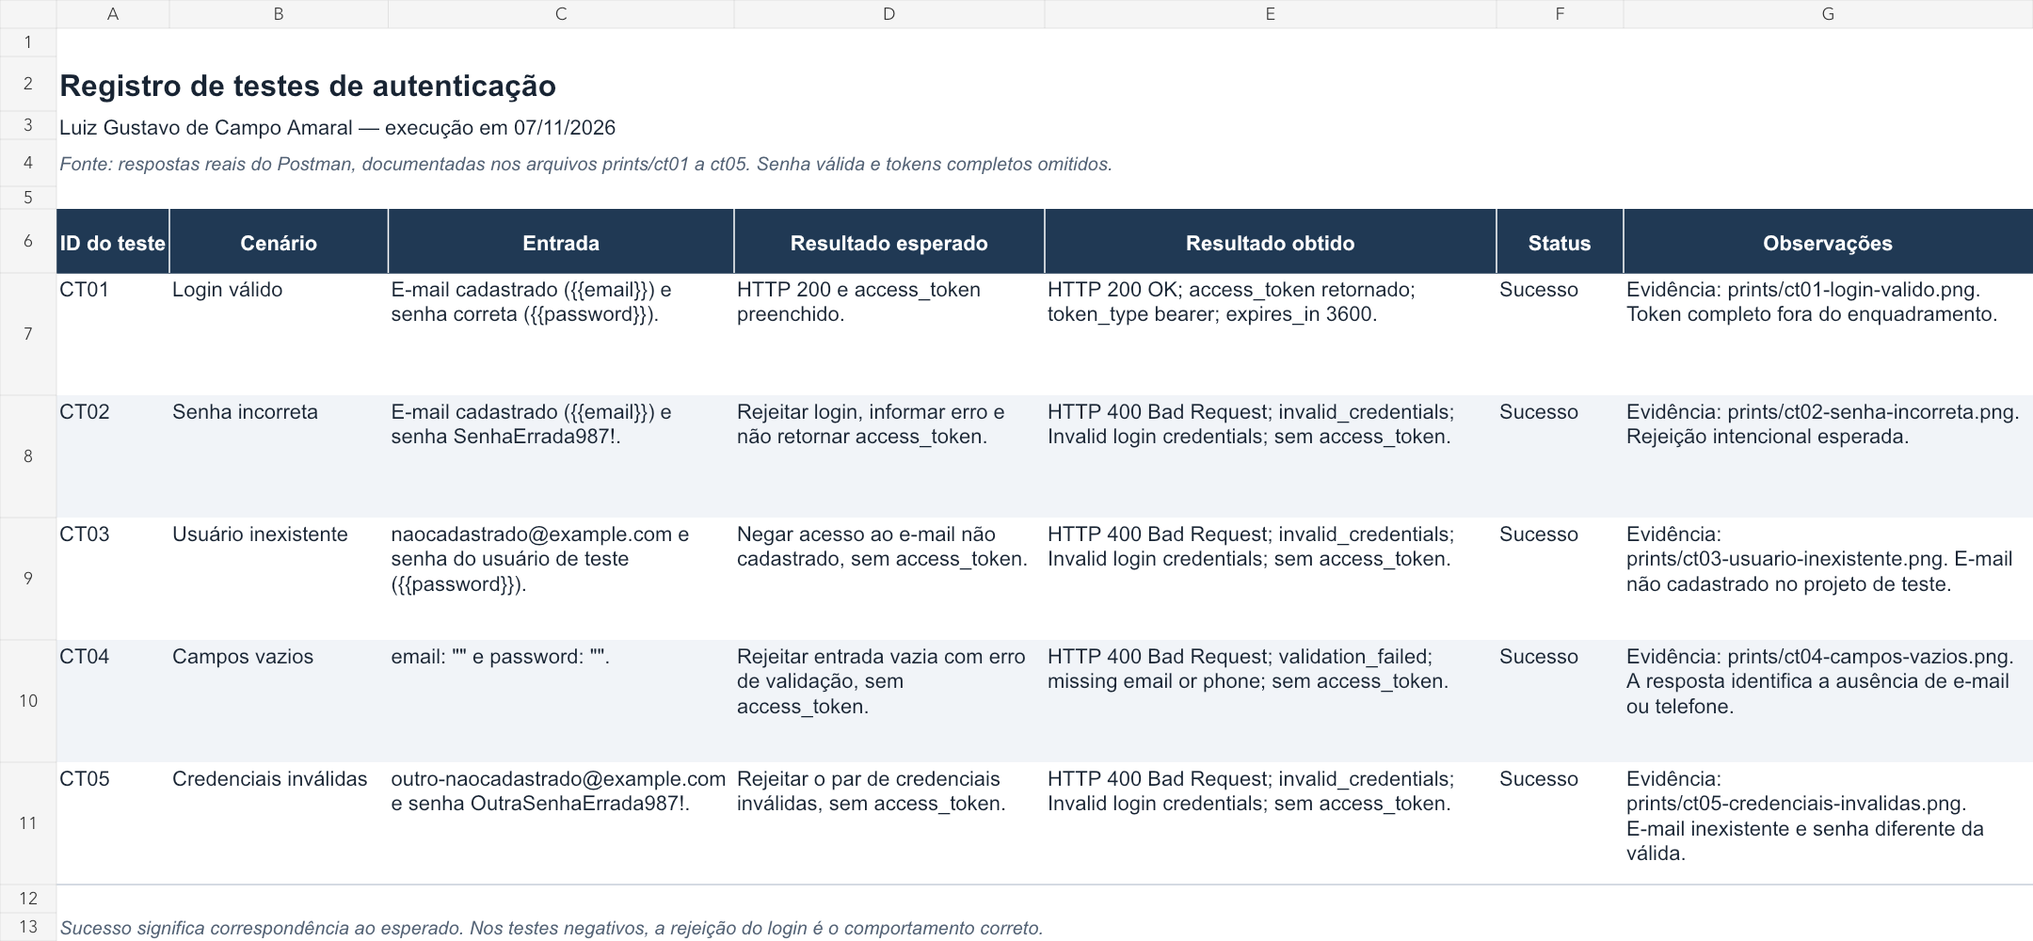
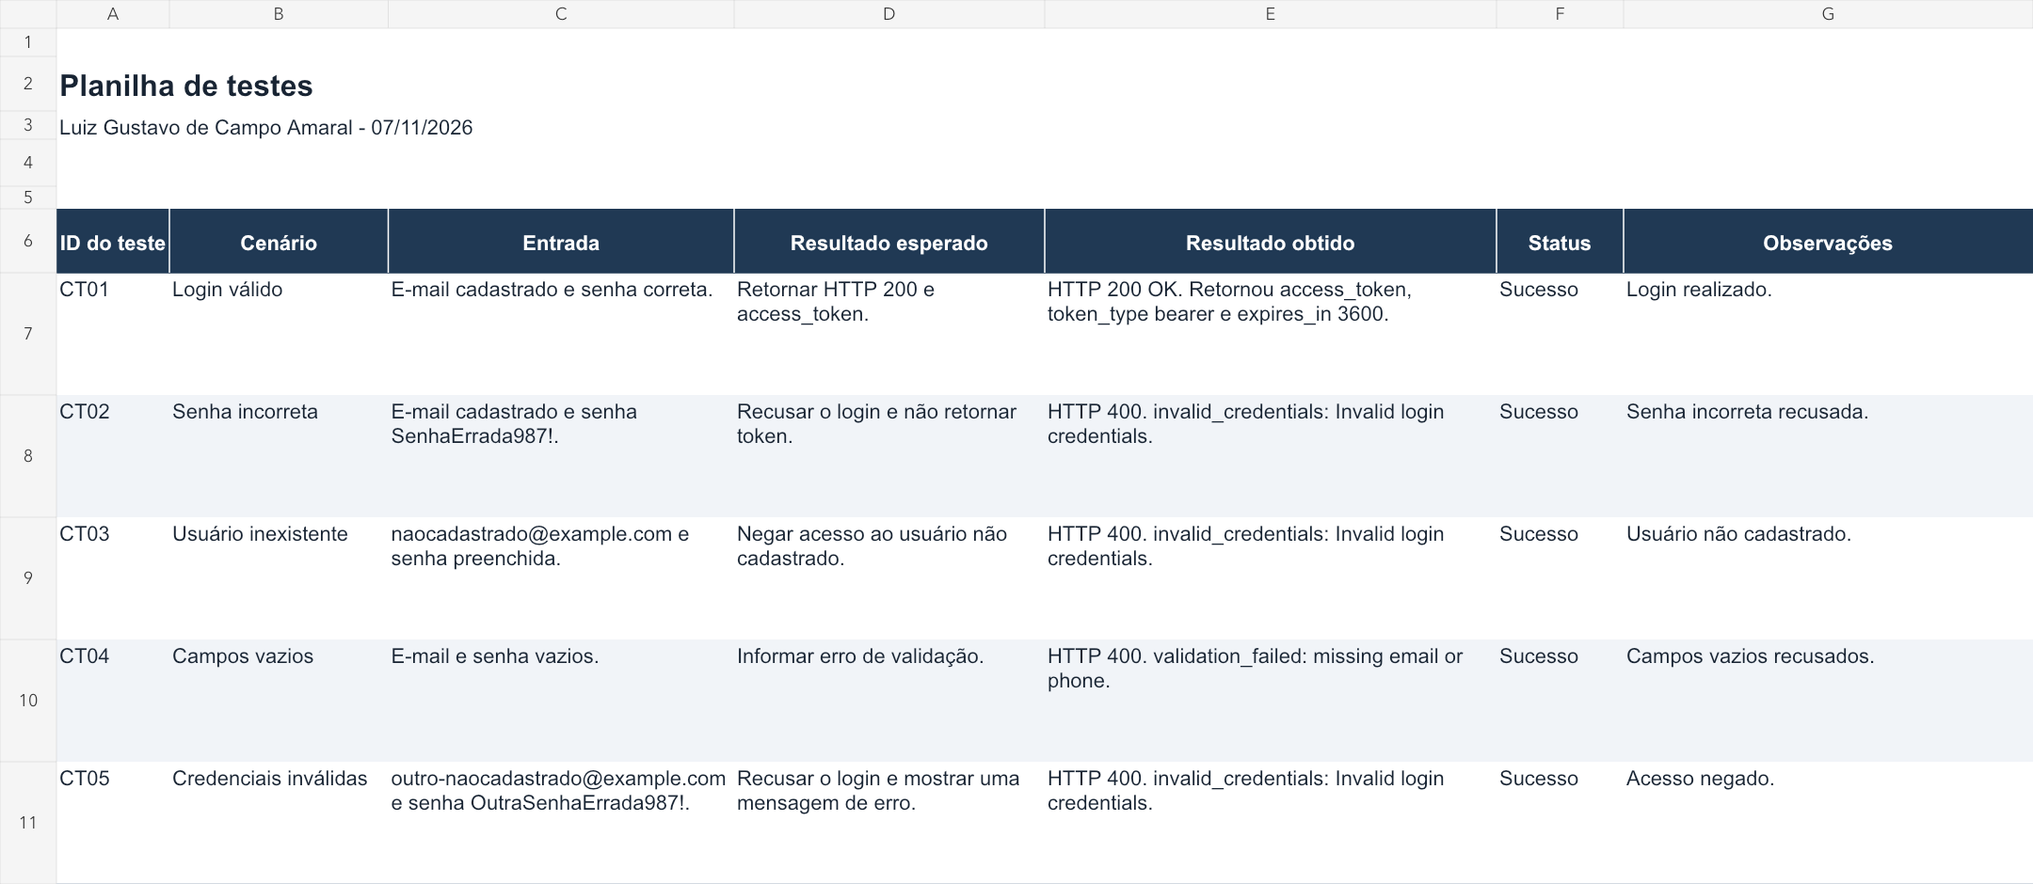
Simplifica relatório e planilha e utiliza os prints originais da atividade

diff --git a/README.md b/README.md
@@ -1,115 +1,70 @@
 # Introdução
 
-**Aluno:** Luiz Gustavo de Campo Amaral  
-**Atividade:** Teste caixa cinza com Supabase e Postman  
-**Data da execução:** 07/11/2026
+Aluno: Luiz Gustavo de Campo Amaral  
+Data: 07/11/2026
 
-Esta atividade registra testes funcionais da API de autenticação do Supabase. Criei um usuário de teste e enviei requisições HTTP pelo Postman para verificar o login com dados válidos, inválidos e vazios.
+Nesta atividade, configurei um projeto no Supabase e usei o Postman para testar o login por e-mail e senha. Fiz os testes diretamente na API, sem criar uma interface.
 
-A abordagem é de caixa cinza porque os testes utilizam conhecimento do endpoint, dos headers, do corpo JSON e das respostas da API, sem examinar toda a implementação interna do serviço de autenticação. Não foi desenvolvida interface gráfica.
-
-> **Ferramenta utilizada:** os testes documentados foram executados no **Postman Web**, com o Cloud Agent. O enunciado pede **Postman Desktop**; a utilização da versão Web é uma diferença em relação ao requisito e depende da aceitação do professor. Os registros não apresentam uma execução no aplicativo Desktop.
-
-## Organização do repositório
-
-```text
-README.md
-postman/
-  testes-autenticacao.postman_collection.json
-  supabase-exemplo.postman_environment.json
-prints/
-  supabase-projeto.png
-  ct01-login-valido.png
-  ct02-senha-incorreta.png
-  ct03-usuario-inexistente.png
-  ct04-campos-vazios.png
-  ct05-credenciais-invalidas.png
-  postman-endpoint-headers.png
-  postman-workspace-variaveis.png
-  postman-ambiente-url.png
-  planilha-testes.png
-planilha/
-  testes.xlsx
-  testes.csv
-```
-
-As evidências do Postman são capturas das respostas que permaneceram abertas após as execuções do aluno. O enquadramento exclui o painel que exibe a senha e, no login válido, deixa o token completo fora da imagem. Os dados de status HTTP, entradas e mensagens não foram substituídos. O JSON exportado contém as requisições; ele não inclui respostas salvas. Os resultados estão registrados nos prints, neste README e na planilha.
+O teste é de caixa cinza porque eu conhecia o endpoint, os headers e o formato dos dados enviados, mas não tinha acesso à implementação interna da autenticação.
 
 # Objetivo da Atividade
 
-Configurar a autenticação por e-mail e senha, compreender as partes de uma requisição HTTP e verificar como a API responde aos cinco cenários exigidos. A documentação permite comparar o resultado esperado com o comportamento observado e localizar a evidência de cada execução.
+Verificar se a API permite o login com os dados corretos e recusa as tentativas com senha errada, usuário inexistente, campos vazios e credenciais inválidas. Também registrei as respostas e os prints de cada teste.
 
 # Configuração do Supabase
 
-O projeto foi criado no painel do Supabase, na organização `Facul`, com o nome `Atividade_Ohata_Luiz-Amaral`. Esse nome identifica o aluno no ambiente. No menu **Authentication → Sign In / Providers**, o provedor **Email** estava habilitado, e a opção **Confirm email** estava ligada.
+Criei o projeto `Atividade_Ohata_Luiz-Amaral`, na organização `Facul`. Configurei a autenticação por e-mail e senha e cadastrei um usuário em Authentication > Users para fazer os testes.
 
-Um usuário foi criado em **Authentication → Users**, com e-mail e senha próprios para os testes. O endereço cadastrado é utilizado pela variável `email`; a senha é mantida na variável `password`. A senha do usuário de autenticação é diferente da senha do banco de dados do projeto. O login válido confirmou que as credenciais do usuário estavam utilizáveis.
+O provedor Email estava habilitado em Sign In / Providers. Depois, copiei a URL do projeto e a chave `anon`, disponível em API Keys > View legacy API keys. Guardei esses valores para usar no Postman.
 
-**URL da API:** `https://aheutzbwjtjvitedqawb.supabase.co`
+URL do projeto:
 
-A URL foi obtida em **Connect**, no valor de `NEXT_PUBLIC_SUPABASE_URL`. A chave utilizada foi a **anon legada**, localizada em **Settings → API Keys → View legacy API keys**. Ela foi armazenada em `api_key`. Não foi utilizada chave `service_role` nem chave secreta administrativa.
+```text
+https://aheutzbwjtjvitedqawb.supabase.co
+```
 
-A configuração teve como objetivo disponibilizar um serviço real de autenticação para os testes HTTP. A chave `anon` identifica o acesso ao projeto; o e-mail e a senha identificam o usuário que solicita uma sessão.
+Essa configuração permitiu testar o login em um ambiente real. O nome do projeto também identifica o aluno responsável pela atividade.
 
-## Evidência do projeto e do painel
-
-O print abaixo mostra o projeto criado, seu painel, a URL da API e o status **Healthy**. O nome do projeto contém a identificação do aluno.
-
-![Projeto Atividade_Ohata_Luiz-Amaral, URL da API e painel com status Healthy](prints/supabase-projeto.png)
-
-**Evidências ainda pendentes desta etapa:** adicionar os arquivos dos prints de **Authentication → Users** (usuário criado), **Sign In / Providers** (Email habilitado) e **API Keys** (tipo da chave utilizada, sem expor credenciais completas). Essas telas foram apresentadas durante a atividade, mas seus arquivos originais não estavam na pasta fornecida. O print do projeto, as evidências do Postman e a visualização da planilha já acompanham esta versão.
+![Projeto criado no Supabase](prints/supabase-projeto.png)
 
 # Configuração do Postman
 
-Foi utilizado o Workspace `facul`. As cinco requisições foram organizadas na coleção **Testes de Autenticação**. O Environment **Supabase - Testes** reúne os valores reutilizados nas chamadas e foi selecionado no topo do Postman antes dos envios.
+Usei o Postman Web no Workspace `facul`. Criei a coleção `Testes de Autenticação` e o ambiente `Supabase - Testes`.
 
-| Variável | Finalidade | Valor na entrega pública |
-| --- | --- | --- |
-| `base_url` | Endereço base da API do projeto | URL do projeto |
-| `api_key` | Chave anon legada enviada nos headers | Omitido; preencher no ambiente local |
-| `email` | E-mail do usuário cadastrado para o teste válido | Omitido; preencher no ambiente local |
-| `password` | Senha do usuário de autenticação | Omitido; preencher no ambiente local |
+No ambiente, configurei as seguintes variáveis:
 
-As variáveis são referenciadas com duas chaves, como `{{base_url}}`. No Environment, as alterações são salvas automaticamente. As requisições foram salvas após sua configuração. O Postman foi usado para editar as entradas, enviar cada chamada e inspecionar manualmente o status HTTP e o JSON retornado.
+| Variável | Finalidade |
+| --- | --- |
+| `base_url` | URL do projeto Supabase |
+| `api_key` | Chave anon do projeto |
+| `email` | E-mail do usuário cadastrado |
+| `password` | Senha do usuário de teste |
 
-![Workspace, coleção e nomes das quatro variáveis; coluna de valores fora do recorte](prints/postman-workspace-variaveis.png)
+Selecionei esse ambiente antes de enviar as requisições. Assim, pude usar `{{email}}` e `{{password}}` sem repetir os dados em cada chamada. A senha utilizada foi a do usuário de autenticação, e não a senha do banco de dados.
 
-![Environment e URL configurada, sem exibir a senha](prints/postman-ambiente-url.png)
-
-## Como importar a coleção
-
-1. Importe [a coleção](postman/testes-autenticacao.postman_collection.json) e [o modelo de ambiente](postman/supabase-exemplo.postman_environment.json) no Postman.
-2. No ambiente importado, preencha `api_key` com a chave anon legada do projeto, `email` e `password` com o usuário de teste. Se utilizar outro projeto, atualize `base_url`.
-3. Selecione o ambiente no topo da aplicação.
-4. Confira que os e-mails utilizados como inexistentes realmente não estão cadastrados no projeto escolhido.
-5. Abra cada requisição, confira os headers e o corpo JSON e envie individualmente.
-6. Compare o comportamento com a tabela de cenários. O código HTTP documentado abaixo é o observado nesta execução.
-
-O modelo não contém senha, chave nem token de sessão. A coleção usa a chave anon legada como Bearer. Uma chave nova `sb_publishable_` não deve ser colocada como token Bearer; a configuração precisa ser adaptada ao trocar o tipo de chave.
+Os arquivos estão na pasta [postman](postman/). A coleção pode ser importada no Postman junto com o modelo de ambiente. Os valores de e-mail, senha e chave devem ser preenchidos na cópia local do ambiente.
 
 # Configuração das Requisições
 
-**Método HTTP:** `POST`  
-**Endpoint:** `/auth/v1/token?grant_type=password`  
-**URL no Postman:** `{{base_url}}/auth/v1/token?grant_type=password`
+Configurei uma requisição POST para o endpoint:
 
-O método POST envia os dados de login no corpo da requisição. O parâmetro `grant_type=password` seleciona a autenticação por senha. A finalidade da chamada é solicitar uma sessão para o usuário informado.
+```text
+{{base_url}}/auth/v1/token?grant_type=password
+```
 
-## Headers
+Essa requisição envia o e-mail e a senha para solicitar uma sessão de login.
 
-| Header | Valor utilizado | Função |
-| --- | --- | --- |
-| `apikey` | `{{api_key}}` — valor real omitido (`XXXXX`) | Identifica o projeto pelo acesso da aplicação |
-| `Authorization` | `Bearer {{api_key}}` | Envia a chave anon legada no formato Bearer |
-| `Content-Type` | `application/json` | Indica que o corpo está em JSON |
+Utilizei estes headers:
 
-A aba Authorization foi configurada como **No Auth** para permitir o preenchimento manual do header `Authorization`, sem gerar outro header automaticamente.
+| Header | Valor |
+| --- | --- |
+| `apikey` | `{{api_key}}` |
+| `Authorization` | `Bearer {{api_key}}` |
+| `Content-Type` | `application/json` |
 
-![Endpoint POST e três headers configurados](prints/postman-endpoint-headers.png)
+O valor real da chave foi omitido da documentação. A configuração usa a chave anon legada.
 
-## Body JSON do login válido
-
-Configurado em **Body → raw → JSON**:
+Em Body, selecionei raw e JSON. Para o login válido, enviei:
 
 ```json
 {
@@ -118,67 +73,43 @@ Configurado em **Body → raw → JSON**:
 }
 ```
 
-O e-mail e a senha são substituídos pelos valores do Environment no envio. Os exemplos de senhas incorretas apresentados nos demais testes são entradas propositalmente inválidas.
+Dupliquei a requisição para os outros cenários, mantendo a URL e os headers e alterando os dados do Body.
 
 # Execução dos Testes
 
-Os cinco cenários foram executados manualmente pelo aluno. Em cada resposta, foram verificados o status HTTP, o conteúdo JSON, a mensagem ou código de erro e a presença ou ausência de `access_token`.
-
-## Tabela de cenários
+Executei os cinco cenários abaixo. Em cada um, conferi o status HTTP, a resposta JSON, a mensagem de erro e se foi retornado um access_token.
 
 | ID | Cenário | Entrada utilizada | Resultado esperado | Resultado obtido | Status |
 | --- | --- | --- | --- | --- | --- |
-| CT01 | Login válido | E-mail cadastrado e senha correta | HTTP 200 e access_token | HTTP 200 OK e access_token preenchido | Sucesso |
-| CT02 | Senha incorreta | E-mail cadastrado e senha incorreta | Rejeitar login sem token | HTTP 400; invalid_credentials | Sucesso |
-| CT03 | Usuário inexistente | E-mail não cadastrado e senha preenchida | Negar acesso sem token | HTTP 400; invalid_credentials | Sucesso |
-| CT04 | Campos vazios | E-mail e senha vazios | Erro de validação sem token | HTTP 400; validation_failed | Sucesso |
-| CT05 | Credenciais inválidas | E-mail não cadastrado e senha incorreta | Mensagem de erro sem token | HTTP 400; invalid_credentials | Sucesso |
+| CT01 | Login válido | E-mail cadastrado e senha correta | HTTP 200 e token de acesso | HTTP 200 e access_token retornado | Sucesso |
+| CT02 | Senha incorreta | E-mail cadastrado e senha errada | Login recusado, sem token | HTTP 400, invalid_credentials | Sucesso |
+| CT03 | Usuário inexistente | E-mail não cadastrado e senha preenchida | Acesso negado | HTTP 400, invalid_credentials | Sucesso |
+| CT04 | Campos vazios | E-mail e senha vazios | Erro de validação | HTTP 400, validation_failed | Sucesso |
+| CT05 | Credenciais inválidas | E-mail não cadastrado e senha errada | Mensagem de erro | HTTP 400, invalid_credentials | Sucesso |
 
-**Critério de status:** “Sucesso” significa que o comportamento observado correspondeu ao esperado. Nos cenários negativos, a rejeição do login é o resultado correto do teste.
+## CT01: login válido
 
-## CT01 — Login válido
+Com os dados corretos, recebi HTTP 200 OK. A resposta trouxe `access_token`, `token_type` com o valor `bearer` e `expires_in` igual a `3600`.
 
-Entrada: `email = {{email}}` e `password = {{password}}`.
+Os valores dos tokens foram ocultados no print.
 
-Resultado observado: **HTTP 200 OK**, campo `access_token` preenchido, `token_type` igual a `bearer` e `expires_in` igual a `3600`. A API criou uma sessão. O valor completo do token não acompanha a documentação pública.
+![Login válido](prints/ct01-login-valido.png)
 
-![CT01: login válido com HTTP 200 e início do campo access_token](prints/ct01-login-valido.png)
+## CT02: senha incorreta
 
-## CT02 — Senha incorreta
+Mantive o e-mail cadastrado e troquei a senha por `SenhaErrada987!`. A API retornou HTTP 400, com o código `invalid_credentials` e a mensagem `Invalid login credentials`.
 
-```json
-{
-  "email": "{{email}}",
-  "password": "SenhaErrada987!"
-}
-```
+![Senha incorreta](prints/ct02-senha-incorreta.png)
 
-Resultado observado: **HTTP 400 Bad Request**, sem `access_token`:
+## CT03: usuário inexistente
 
-```json
-{
-  "code": 400,
-  "error_code": "invalid_credentials",
-  "msg": "Invalid login credentials"
-}
-```
+Usei o e-mail `naocadastrado@example.com`, que não estava cadastrado no projeto. O resultado foi HTTP 400, com `invalid_credentials` e a mensagem `Invalid login credentials`.
 
-![CT02: senha incorreta rejeitada](prints/ct02-senha-incorreta.png)
+![Usuário inexistente](prints/ct03-usuario-inexistente.png)
 
-## CT03 — Usuário inexistente
+## CT04: campos vazios
 
-```json
-{
-  "email": "naocadastrado@example.com",
-  "password": "{{password}}"
-}
-```
-
-Resultado observado: **HTTP 400 Bad Request**, `error_code` igual a `invalid_credentials`, mensagem `Invalid login credentials` e ausência de `access_token`.
-
-![CT03: usuário inexistente rejeitado](prints/ct03-usuario-inexistente.png)
-
-## CT04 — Campos vazios
+Enviei os dois campos sem nenhum valor:
 
 ```json
 {
@@ -187,71 +118,38 @@ Resultado observado: **HTTP 400 Bad Request**, `error_code` igual a `invalid_cre
 }
 ```
 
-Resultado observado: **HTTP 400 Bad Request**, sem `access_token`:
+A API retornou HTTP 400, com o código `validation_failed` e a mensagem `missing email or phone`.
 
-```json
-{
-  "code": 400,
-  "error_code": "validation_failed",
-  "msg": "missing email or phone"
-}
-```
+![Campos vazios](prints/ct04-campos-vazios.png)
 
-A mensagem identifica a ausência de e-mail ou telefone. Essa resposta evidencia a rejeição dessa entrada vazia; o cenário não isola, sozinho, a validação do campo senha.
+## CT05: credenciais inválidas
 
-![CT04: validação dos campos vazios](prints/ct04-campos-vazios.png)
+Usei `outro-naocadastrado@example.com` e a senha `OutraSenhaErrada987!`. A resposta foi HTTP 400, com `invalid_credentials` e a mensagem `Invalid login credentials`.
 
-## CT05 — Credenciais inválidas
-
-```json
-{
-  "email": "outro-naocadastrado@example.com",
-  "password": "OutraSenhaErrada987!"
-}
-```
-
-Resultado observado: **HTTP 400 Bad Request**, `error_code` igual a `invalid_credentials`, mensagem `Invalid login credentials` e ausência de `access_token`. Neste cenário foram usados, ao mesmo tempo, um e-mail inexistente e uma senha diferente da válida.
-
-![CT05: par de credenciais inválidas rejeitado](prints/ct05-credenciais-invalidas.png)
-
-## Dificuldade durante a configuração
-
-Uma tentativa inicial retornou **HTTP 401 Unauthorized**, com `No API key found in request` e a indicação de ausência do header `apikey`. Nessa tentativa, o método também ainda estava como GET. A configuração foi corrigida para POST, com os headers exigidos e o body JSON. Em seguida, o login válido retornou HTTP 200.
-
-Esse episódio foi um erro de configuração da requisição. Ele não é contado como um dos cinco cenários finais e não comprova um defeito no Supabase. As sugestões automáticas do Postman para corrigir senhas foram desconsideradas nos testes negativos, pois as entradas inválidas eram intencionais.
+![Credenciais inválidas](prints/ct05-credenciais-invalidas.png)
 
 # Registro dos Testes
 
-Os registros estão na [planilha Excel](planilha/testes.xlsx) e em uma [cópia CSV](planilha/testes.csv). Cada linha contém ID do teste, cenário, entrada, resultado esperado, resultado obtido, status e observações. A coluna de observações indica a evidência correspondente em `prints/`.
+Registrei os testes em uma [planilha Excel](planilha/testes.xlsx), com ID, cenário, entrada, resultado esperado, resultado obtido, status e observações. Também deixei uma [cópia em CSV](planilha/testes.csv).
 
-![Visualização da planilha preenchida com os cinco testes](prints/planilha-testes.png)
+Esse registro ajuda a comparar as respostas e consultar depois quais dados foram usados em cada tentativa. Não encontrei falhas de autenticação nos cinco cenários executados.
 
-Por exemplo, o CT02 foi registrado como sucesso porque a senha incorreta gerou HTTP 400 e `invalid_credentials`, sem liberar uma sessão. O CT04 também teve sucesso, pois a API recusou os campos vazios com `validation_failed`.
-
-O registro facilita a revisão dos dados enviados, evita confundir erro HTTP esperado com falha de teste e permite comparar novas execuções com o comportamento observado. Não foram identificadas falhas funcionais nos cinco cenários finais. A dificuldade identificada foi a configuração incompleta da requisição inicial.
+![Planilha de testes preenchida](prints/planilha-testes.png)
 
 # Resultados Obtidos
 
-Os **cinco cenários** apresentaram o comportamento esperado: o login válido retornou uma sessão, e os outros quatro não retornaram token de acesso. Nos testes de senha incorreta, usuário inexistente e par inválido, a resposta foi a mesma mensagem genérica de credenciais inválidas.
+O login com os dados corretos retornou HTTP 200 e um token de acesso. Os outros quatro testes foram recusados com HTTP 400, sem retornar access_token.
 
-Os testes cobrem somente os cenários descritos. Não foram testados expiração e renovação de token, logout, bloqueio por tentativas, permissões de dados ou desempenho. A presença de `access_token` foi verificada no JSON; sua validade para acessar outro endpoint não foi testada nesta atividade.
+Senha incorreta, usuário inexistente e credenciais inválidas receberam a mesma mensagem: `Invalid login credentials`. Já os campos vazios retornaram `missing email or phone`.
 
-O resultado funcional dos testes foi satisfatório. A entrega ainda precisa complementar as evidências de configuração do Supabase com os prints do usuário, do provedor Email e das chaves. Também é necessário atender à exigência de ferramenta do enunciado: as execuções registradas são da versão Web, e não do aplicativo Desktop.
+No começo, uma tentativa retornou HTTP 401 com a mensagem `No API key found in request`. Eu ainda precisava incluir o header `apikey` e trocar o método de GET para POST. Depois que corrigi a requisição, o login funcionou.
 
 # Conclusão
 
-Consegui configurar a autenticação e executar os cinco cenários de teste. Com e-mail e senha corretos, o Supabase retornou HTTP 200 e um token de acesso. As entradas incorretas foram rejeitadas com HTTP 400, e os campos vazios geraram uma mensagem de validação.
+Consegui executar os cinco testes e obter as respostas esperadas. A autenticação funcionou com o usuário e a senha corretos e bloqueou as entradas inválidas.
 
-A principal dificuldade foi entender a diferença entre configurar variáveis e realmente enviá-las nos headers e no corpo da requisição. Na primeira tentativa faltou o header apikey, e o método ainda precisava ser alterado para POST. Após esses ajustes, foi possível obter o login válido e comparar os demais resultados.
+Minha maior dificuldade foi configurar a primeira requisição no Postman, principalmente os headers e o método HTTP. Depois disso, usei cópias da requisição para testar as outras situações.
 
-Não identifiquei defeitos funcionais nos cenários realizados. Como melhoria, seria útil acrescentar testes separados para apenas e-mail vazio e apenas senha vazia, além de verificar expiração, renovação e uso do token em uma rota protegida. As validações também poderiam ser automatizadas no Postman em uma etapa futura; os testes desta entrega foram manuais.
+Não identifiquei falhas nos cenários realizados. Para ampliar os testes, eu poderia verificar a expiração do token e testar o e-mail vazio e a senha vazia separadamente.
 
-Os testes de caixa cinza ajudaram a relacionar o que foi enviado com o que a API retornou. Conhecer a estrutura da chamada permitiu corrigir a configuração inicial e distinguir uma rejeição esperada de um comportamento incorreto.
-
-A documentação foi organizada em repositório público no GitHub. Para concluir a entrega conforme o enunciado, ainda é necessário adicionar as evidências do Supabase e resolver a diferença entre Postman Web e Desktop.
-
-## Referências
-
-- [Supabase: autenticação por senha](https://supabase.com/docs/guides/auth/passwords)
-- [Supabase: tipos de chave da API](https://supabase.com/docs/guides/getting-started/api-keys)
-- [Postman: variáveis de ambiente](https://learning.postman.com/docs/use/send-requests/variables/environment-variables)
+A atividade me ajudou a entender como uma API de autenticação recebe os dados e responde às tentativas de login. Conhecer parte da estrutura da requisição foi importante para encontrar o erro de configuração e conferir o comportamento da API.
